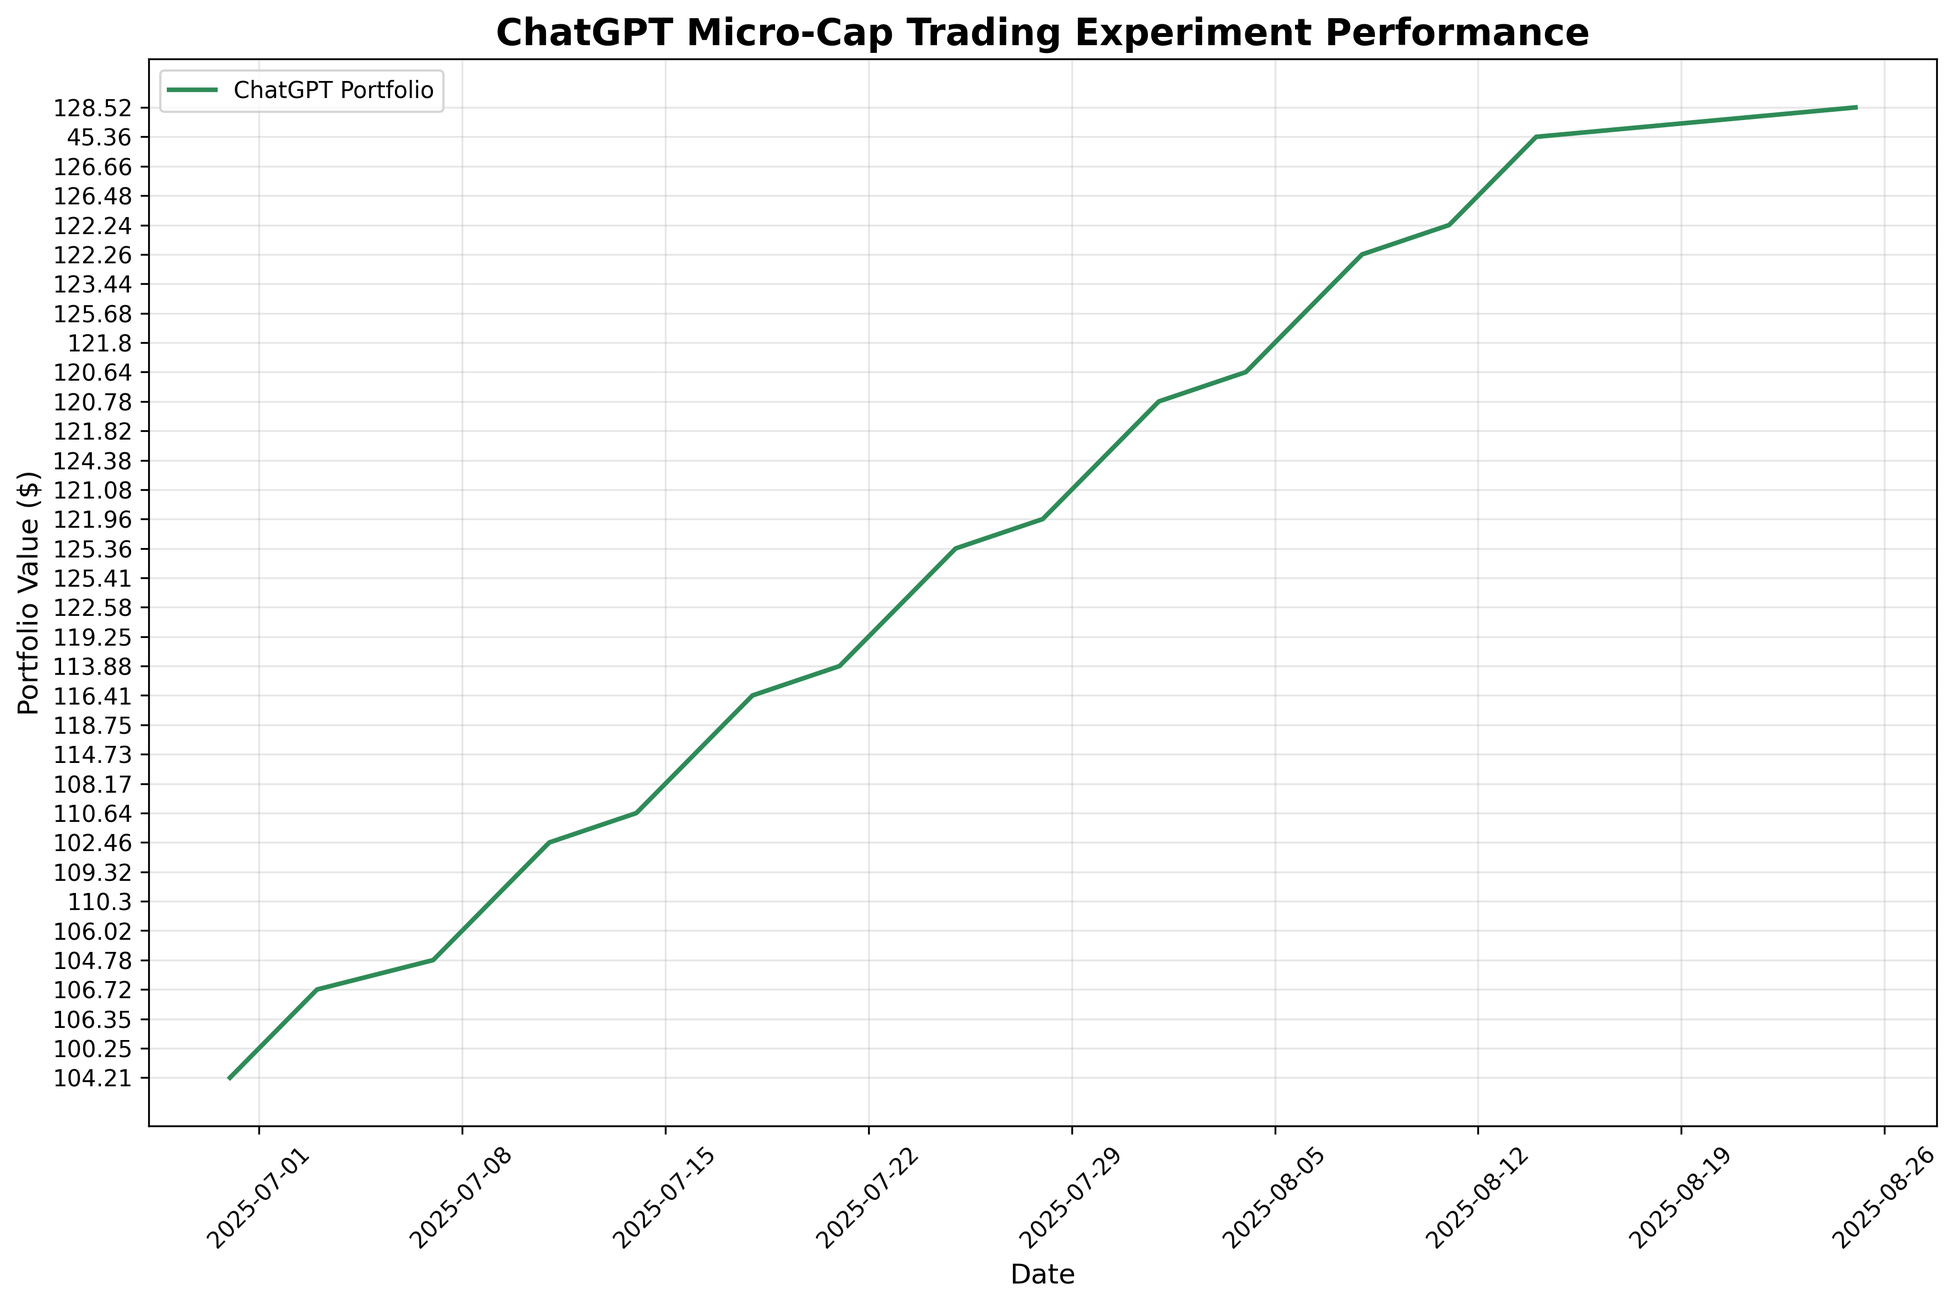
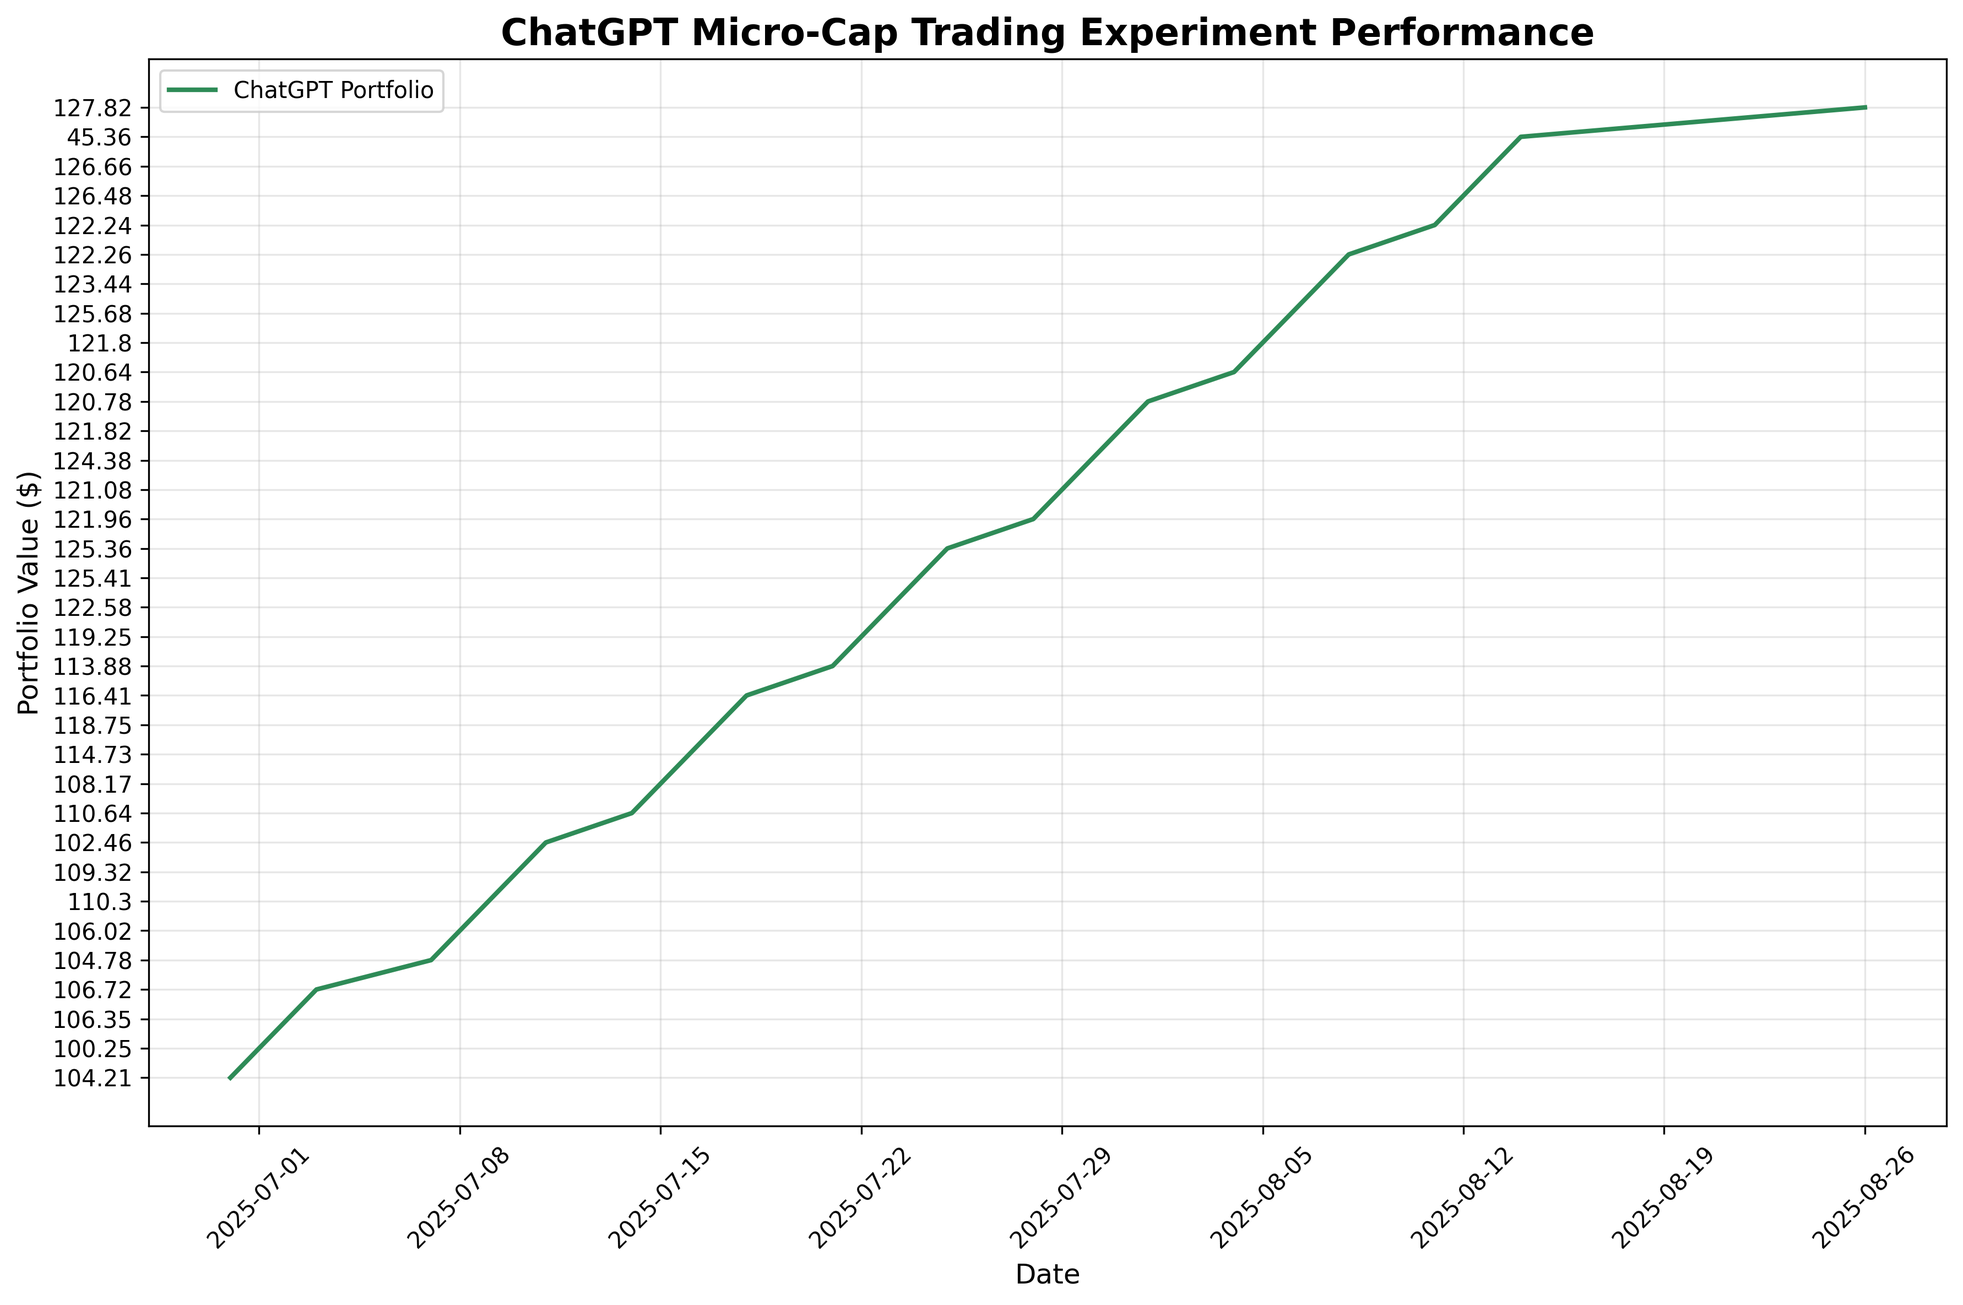
deploy: e15cad030d70fb3fbb51f9df6e22fa70c2f175c0

diff --git a/index.html b/index.html
@@ -105,7 +105,7 @@
                 <div class="stat-label">Total Trades</div>
             </div>
             <div class="stat-card">
-                <div class="stat-value" id="last-updated">2025-08-25</div>
+                <div class="stat-value" id="last-updated">2025-08-26</div>
                 <div class="stat-label">Last Updated</div>
             </div>
         </div>
@@ -160,7 +160,7 @@
     
     <script>
         // Portfolio data
-        const portfolioData = JSON.parse("[{&quot;Date&quot;: &quot;2025-08-11&quot;, &quot;Ticker&quot;: &quot;ABEO&quot;, &quot;Shares&quot;: 4.0, &quot;Buy Price&quot;: 5.77, &quot;Cost Basis&quot;: 23.08, &quot;Stop Loss&quot;: 4.9, &quot;Current Price&quot;: 6.28, &quot;Total Value&quot;: 25.12, &quot;PnL&quot;: 2.04, &quot;Action&quot;: &quot;HOLD&quot;, &quot;Cash Balance&quot;: NaN, &quot;Total Equity&quot;: NaN}, {&quot;Date&quot;: &quot;2025-08-11&quot;, &quot;Ticker&quot;: &quot;ACTU&quot;, &quot;Shares&quot;: 6.0, &quot;Buy Price&quot;: 5.75, &quot;Cost Basis&quot;: 34.5, &quot;Stop Loss&quot;: 4.89, &quot;Current Price&quot;: 8.01, &quot;Total Value&quot;: 48.06, &quot;PnL&quot;: 13.56, &quot;Action&quot;: &quot;HOLD&quot;, &quot;Cash Balance&quot;: NaN, &quot;Total Equity&quot;: NaN}, {&quot;Date&quot;: &quot;2025-08-11&quot;, &quot;Ticker&quot;: &quot;ESPR&quot;, &quot;Shares&quot;: 2.0, &quot;Buy Price&quot;: 1.91, &quot;Cost Basis&quot;: 3.82, &quot;Stop Loss&quot;: 1.6, &quot;Current Price&quot;: 1.85, &quot;Total Value&quot;: 3.7, &quot;PnL&quot;: -0.12, &quot;Action&quot;: &quot;HOLD&quot;, &quot;Cash Balance&quot;: NaN, &quot;Total Equity&quot;: NaN}, {&quot;Date&quot;: &quot;2025-08-11&quot;, &quot;Ticker&quot;: &quot;TOTAL&quot;, &quot;Shares&quot;: NaN, &quot;Buy Price&quot;: NaN, &quot;Cost Basis&quot;: NaN, &quot;Stop Loss&quot;: NaN, &quot;Current Price&quot;: NaN, &quot;Total Value&quot;: 76.88, &quot;PnL&quot;: 15.48, &quot;Action&quot;: NaN, &quot;Cash Balance&quot;: 45.36, &quot;Total Equity&quot;: &quot;122.24&quot;}, {&quot;Date&quot;: &quot;2025-08-12&quot;, &quot;Ticker&quot;: &quot;ABEO&quot;, &quot;Shares&quot;: 4.0, &quot;Buy Price&quot;: 5.77, &quot;Cost Basis&quot;: 23.08, &quot;Stop Loss&quot;: 4.9, &quot;Current Price&quot;: 6.38, &quot;Total Value&quot;: 25.52, &quot;PnL&quot;: 2.44, &quot;Action&quot;: &quot;HOLD&quot;, &quot;Cash Balance&quot;: NaN, &quot;Total Equity&quot;: NaN}, {&quot;Date&quot;: &quot;2025-08-12&quot;, &quot;Ticker&quot;: &quot;ACTU&quot;, &quot;Shares&quot;: 6.0, &quot;Buy Price&quot;: 5.75, &quot;Cost Basis&quot;: 34.5, &quot;Stop Loss&quot;: 4.89, &quot;Current Price&quot;: 8.67, &quot;Total Value&quot;: 52.02, &quot;PnL&quot;: 17.52, &quot;Action&quot;: &quot;HOLD&quot;, &quot;Cash Balance&quot;: NaN, &quot;Total Equity&quot;: NaN}, {&quot;Date&quot;: &quot;2025-08-12&quot;, &quot;Ticker&quot;: &quot;ESPR&quot;, &quot;Shares&quot;: 2.0, &quot;Buy Price&quot;: 1.91, &quot;Cost Basis&quot;: 3.82, &quot;Stop Loss&quot;: 1.6, &quot;Current Price&quot;: 1.79, &quot;Total Value&quot;: 3.58, &quot;PnL&quot;: -0.24, &quot;Action&quot;: &quot;HOLD&quot;, &quot;Cash Balance&quot;: NaN, &quot;Total Equity&quot;: NaN}, {&quot;Date&quot;: &quot;2025-08-12&quot;, &quot;Ticker&quot;: &quot;TOTAL&quot;, &quot;Shares&quot;: NaN, &quot;Buy Price&quot;: NaN, &quot;Cost Basis&quot;: NaN, &quot;Stop Loss&quot;: NaN, &quot;Current Price&quot;: NaN, &quot;Total Value&quot;: 81.12, &quot;PnL&quot;: 19.72, &quot;Action&quot;: NaN, &quot;Cash Balance&quot;: 45.36, &quot;Total Equity&quot;: &quot;126.48&quot;}, {&quot;Date&quot;: &quot;2025-08-13&quot;, &quot;Ticker&quot;: &quot;ABEO&quot;, &quot;Shares&quot;: 4.0, &quot;Buy Price&quot;: 5.77, &quot;Cost Basis&quot;: 23.08, &quot;Stop Loss&quot;: 4.9, &quot;Current Price&quot;: 6.56, &quot;Total Value&quot;: 26.24, &quot;PnL&quot;: 3.16, &quot;Action&quot;: &quot;HOLD&quot;, &quot;Cash Balance&quot;: NaN, &quot;Total Equity&quot;: NaN}, {&quot;Date&quot;: &quot;2025-08-13&quot;, &quot;Ticker&quot;: &quot;ACTU&quot;, &quot;Shares&quot;: 6.0, &quot;Buy Price&quot;: 5.75, &quot;Cost Basis&quot;: 34.5, &quot;Stop Loss&quot;: 4.89, &quot;Current Price&quot;: 8.53, &quot;Total Value&quot;: 51.18, &quot;PnL&quot;: 16.68, &quot;Action&quot;: &quot;HOLD&quot;, &quot;Cash Balance&quot;: NaN, &quot;Total Equity&quot;: NaN}, {&quot;Date&quot;: &quot;2025-08-13&quot;, &quot;Ticker&quot;: &quot;ESPR&quot;, &quot;Shares&quot;: 2.0, &quot;Buy Price&quot;: 1.91, &quot;Cost Basis&quot;: 3.82, &quot;Stop Loss&quot;: 1.6, &quot;Current Price&quot;: 1.94, &quot;Total Value&quot;: 3.88, &quot;PnL&quot;: 0.06, &quot;Action&quot;: &quot;HOLD&quot;, &quot;Cash Balance&quot;: NaN, &quot;Total Equity&quot;: NaN}, {&quot;Date&quot;: &quot;2025-08-13&quot;, &quot;Ticker&quot;: &quot;TOTAL&quot;, &quot;Shares&quot;: NaN, &quot;Buy Price&quot;: NaN, &quot;Cost Basis&quot;: NaN, &quot;Stop Loss&quot;: NaN, &quot;Current Price&quot;: NaN, &quot;Total Value&quot;: 81.3, &quot;PnL&quot;: 19.9, &quot;Action&quot;: NaN, &quot;Cash Balance&quot;: 45.36, &quot;Total Equity&quot;: &quot;126.66&quot;}, {&quot;Date&quot;: &quot;2025-08-14&quot;, &quot;Ticker&quot;: &quot;ABEO&quot;, &quot;Shares&quot;: 4.0, &quot;Buy Price&quot;: 5.77, &quot;Cost Basis&quot;: 23.08, &quot;Stop Loss&quot;: 4.9, &quot;Current Price&quot;: NaN, &quot;Total Value&quot;: NaN, &quot;PnL&quot;: NaN, &quot;Action&quot;: &quot;NO DATA&quot;, &quot;Cash Balance&quot;: NaN, &quot;Total Equity&quot;: NaN}, {&quot;Date&quot;: &quot;2025-08-14&quot;, &quot;Ticker&quot;: &quot;ACTU&quot;, &quot;Shares&quot;: 6.0, &quot;Buy Price&quot;: 5.75, &quot;Cost Basis&quot;: 34.5, &quot;Stop Loss&quot;: 4.89, &quot;Current Price&quot;: NaN, &quot;Total Value&quot;: NaN, &quot;PnL&quot;: NaN, &quot;Action&quot;: &quot;NO DATA&quot;, &quot;Cash Balance&quot;: NaN, &quot;Total Equity&quot;: NaN}, {&quot;Date&quot;: &quot;2025-08-14&quot;, &quot;Ticker&quot;: &quot;ESPR&quot;, &quot;Shares&quot;: 2.0, &quot;Buy Price&quot;: 1.91, &quot;Cost Basis&quot;: 3.82, &quot;Stop Loss&quot;: 1.6, &quot;Current Price&quot;: NaN, &quot;Total Value&quot;: NaN, &quot;PnL&quot;: NaN, &quot;Action&quot;: &quot;NO DATA&quot;, &quot;Cash Balance&quot;: NaN, &quot;Total Equity&quot;: NaN}, {&quot;Date&quot;: &quot;2025-08-14&quot;, &quot;Ticker&quot;: &quot;TOTAL&quot;, &quot;Shares&quot;: NaN, &quot;Buy Price&quot;: NaN, &quot;Cost Basis&quot;: NaN, &quot;Stop Loss&quot;: NaN, &quot;Current Price&quot;: NaN, &quot;Total Value&quot;: 0.0, &quot;PnL&quot;: 0.0, &quot;Action&quot;: NaN, &quot;Cash Balance&quot;: 45.36, &quot;Total Equity&quot;: &quot;45.36&quot;}, {&quot;Date&quot;: &quot;2025-08-25&quot;, &quot;Ticker&quot;: &quot;ABEO&quot;, &quot;Shares&quot;: 4.0, &quot;Buy Price&quot;: 5.77, &quot;Cost Basis&quot;: 23.08, &quot;Stop Loss&quot;: 4.9, &quot;Current Price&quot;: 7.26, &quot;Total Value&quot;: 29.04, &quot;PnL&quot;: 5.96, &quot;Action&quot;: &quot;HOLD&quot;, &quot;Cash Balance&quot;: NaN, &quot;Total Equity&quot;: NaN}, {&quot;Date&quot;: &quot;2025-08-25&quot;, &quot;Ticker&quot;: &quot;ACTU&quot;, &quot;Shares&quot;: 6.0, &quot;Buy Price&quot;: 5.75, &quot;Cost Basis&quot;: 34.5, &quot;Stop Loss&quot;: 4.89, &quot;Current Price&quot;: 8.28, &quot;Total Value&quot;: 49.68, &quot;PnL&quot;: 15.18, &quot;Action&quot;: &quot;HOLD&quot;, &quot;Cash Balance&quot;: NaN, &quot;Total Equity&quot;: NaN}, {&quot;Date&quot;: &quot;2025-08-25&quot;, &quot;Ticker&quot;: &quot;ESPR&quot;, &quot;Shares&quot;: 2.0, &quot;Buy Price&quot;: 1.91, &quot;Cost Basis&quot;: 3.82, &quot;Stop Loss&quot;: 1.6, &quot;Current Price&quot;: 2.22, &quot;Total Value&quot;: 4.44, &quot;PnL&quot;: 0.62, &quot;Action&quot;: &quot;HOLD&quot;, &quot;Cash Balance&quot;: NaN, &quot;Total Equity&quot;: NaN}, {&quot;Date&quot;: &quot;2025-08-25&quot;, &quot;Ticker&quot;: &quot;TOTAL&quot;, &quot;Shares&quot;: NaN, &quot;Buy Price&quot;: NaN, &quot;Cost Basis&quot;: NaN, &quot;Stop Loss&quot;: NaN, &quot;Current Price&quot;: NaN, &quot;Total Value&quot;: 83.16, &quot;PnL&quot;: 21.76, &quot;Action&quot;: NaN, &quot;Cash Balance&quot;: 45.36, &quot;Total Equity&quot;: &quot;128.52&quot;}]");
+        const portfolioData = JSON.parse("[{&quot;Date&quot;: &quot;2025-08-11&quot;, &quot;Ticker&quot;: &quot;ABEO&quot;, &quot;Shares&quot;: 4.0, &quot;Buy Price&quot;: 5.77, &quot;Cost Basis&quot;: 23.08, &quot;Stop Loss&quot;: 4.9, &quot;Current Price&quot;: 6.28, &quot;Total Value&quot;: 25.12, &quot;PnL&quot;: 2.04, &quot;Action&quot;: &quot;HOLD&quot;, &quot;Cash Balance&quot;: NaN, &quot;Total Equity&quot;: NaN}, {&quot;Date&quot;: &quot;2025-08-11&quot;, &quot;Ticker&quot;: &quot;ACTU&quot;, &quot;Shares&quot;: 6.0, &quot;Buy Price&quot;: 5.75, &quot;Cost Basis&quot;: 34.5, &quot;Stop Loss&quot;: 4.89, &quot;Current Price&quot;: 8.01, &quot;Total Value&quot;: 48.06, &quot;PnL&quot;: 13.56, &quot;Action&quot;: &quot;HOLD&quot;, &quot;Cash Balance&quot;: NaN, &quot;Total Equity&quot;: NaN}, {&quot;Date&quot;: &quot;2025-08-11&quot;, &quot;Ticker&quot;: &quot;ESPR&quot;, &quot;Shares&quot;: 2.0, &quot;Buy Price&quot;: 1.91, &quot;Cost Basis&quot;: 3.82, &quot;Stop Loss&quot;: 1.6, &quot;Current Price&quot;: 1.85, &quot;Total Value&quot;: 3.7, &quot;PnL&quot;: -0.12, &quot;Action&quot;: &quot;HOLD&quot;, &quot;Cash Balance&quot;: NaN, &quot;Total Equity&quot;: NaN}, {&quot;Date&quot;: &quot;2025-08-11&quot;, &quot;Ticker&quot;: &quot;TOTAL&quot;, &quot;Shares&quot;: NaN, &quot;Buy Price&quot;: NaN, &quot;Cost Basis&quot;: NaN, &quot;Stop Loss&quot;: NaN, &quot;Current Price&quot;: NaN, &quot;Total Value&quot;: 76.88, &quot;PnL&quot;: 15.48, &quot;Action&quot;: NaN, &quot;Cash Balance&quot;: 45.36, &quot;Total Equity&quot;: &quot;122.24&quot;}, {&quot;Date&quot;: &quot;2025-08-12&quot;, &quot;Ticker&quot;: &quot;ABEO&quot;, &quot;Shares&quot;: 4.0, &quot;Buy Price&quot;: 5.77, &quot;Cost Basis&quot;: 23.08, &quot;Stop Loss&quot;: 4.9, &quot;Current Price&quot;: 6.38, &quot;Total Value&quot;: 25.52, &quot;PnL&quot;: 2.44, &quot;Action&quot;: &quot;HOLD&quot;, &quot;Cash Balance&quot;: NaN, &quot;Total Equity&quot;: NaN}, {&quot;Date&quot;: &quot;2025-08-12&quot;, &quot;Ticker&quot;: &quot;ACTU&quot;, &quot;Shares&quot;: 6.0, &quot;Buy Price&quot;: 5.75, &quot;Cost Basis&quot;: 34.5, &quot;Stop Loss&quot;: 4.89, &quot;Current Price&quot;: 8.67, &quot;Total Value&quot;: 52.02, &quot;PnL&quot;: 17.52, &quot;Action&quot;: &quot;HOLD&quot;, &quot;Cash Balance&quot;: NaN, &quot;Total Equity&quot;: NaN}, {&quot;Date&quot;: &quot;2025-08-12&quot;, &quot;Ticker&quot;: &quot;ESPR&quot;, &quot;Shares&quot;: 2.0, &quot;Buy Price&quot;: 1.91, &quot;Cost Basis&quot;: 3.82, &quot;Stop Loss&quot;: 1.6, &quot;Current Price&quot;: 1.79, &quot;Total Value&quot;: 3.58, &quot;PnL&quot;: -0.24, &quot;Action&quot;: &quot;HOLD&quot;, &quot;Cash Balance&quot;: NaN, &quot;Total Equity&quot;: NaN}, {&quot;Date&quot;: &quot;2025-08-12&quot;, &quot;Ticker&quot;: &quot;TOTAL&quot;, &quot;Shares&quot;: NaN, &quot;Buy Price&quot;: NaN, &quot;Cost Basis&quot;: NaN, &quot;Stop Loss&quot;: NaN, &quot;Current Price&quot;: NaN, &quot;Total Value&quot;: 81.12, &quot;PnL&quot;: 19.72, &quot;Action&quot;: NaN, &quot;Cash Balance&quot;: 45.36, &quot;Total Equity&quot;: &quot;126.48&quot;}, {&quot;Date&quot;: &quot;2025-08-13&quot;, &quot;Ticker&quot;: &quot;ABEO&quot;, &quot;Shares&quot;: 4.0, &quot;Buy Price&quot;: 5.77, &quot;Cost Basis&quot;: 23.08, &quot;Stop Loss&quot;: 4.9, &quot;Current Price&quot;: 6.56, &quot;Total Value&quot;: 26.24, &quot;PnL&quot;: 3.16, &quot;Action&quot;: &quot;HOLD&quot;, &quot;Cash Balance&quot;: NaN, &quot;Total Equity&quot;: NaN}, {&quot;Date&quot;: &quot;2025-08-13&quot;, &quot;Ticker&quot;: &quot;ACTU&quot;, &quot;Shares&quot;: 6.0, &quot;Buy Price&quot;: 5.75, &quot;Cost Basis&quot;: 34.5, &quot;Stop Loss&quot;: 4.89, &quot;Current Price&quot;: 8.53, &quot;Total Value&quot;: 51.18, &quot;PnL&quot;: 16.68, &quot;Action&quot;: &quot;HOLD&quot;, &quot;Cash Balance&quot;: NaN, &quot;Total Equity&quot;: NaN}, {&quot;Date&quot;: &quot;2025-08-13&quot;, &quot;Ticker&quot;: &quot;ESPR&quot;, &quot;Shares&quot;: 2.0, &quot;Buy Price&quot;: 1.91, &quot;Cost Basis&quot;: 3.82, &quot;Stop Loss&quot;: 1.6, &quot;Current Price&quot;: 1.94, &quot;Total Value&quot;: 3.88, &quot;PnL&quot;: 0.06, &quot;Action&quot;: &quot;HOLD&quot;, &quot;Cash Balance&quot;: NaN, &quot;Total Equity&quot;: NaN}, {&quot;Date&quot;: &quot;2025-08-13&quot;, &quot;Ticker&quot;: &quot;TOTAL&quot;, &quot;Shares&quot;: NaN, &quot;Buy Price&quot;: NaN, &quot;Cost Basis&quot;: NaN, &quot;Stop Loss&quot;: NaN, &quot;Current Price&quot;: NaN, &quot;Total Value&quot;: 81.3, &quot;PnL&quot;: 19.9, &quot;Action&quot;: NaN, &quot;Cash Balance&quot;: 45.36, &quot;Total Equity&quot;: &quot;126.66&quot;}, {&quot;Date&quot;: &quot;2025-08-14&quot;, &quot;Ticker&quot;: &quot;ABEO&quot;, &quot;Shares&quot;: 4.0, &quot;Buy Price&quot;: 5.77, &quot;Cost Basis&quot;: 23.08, &quot;Stop Loss&quot;: 4.9, &quot;Current Price&quot;: NaN, &quot;Total Value&quot;: NaN, &quot;PnL&quot;: NaN, &quot;Action&quot;: &quot;NO DATA&quot;, &quot;Cash Balance&quot;: NaN, &quot;Total Equity&quot;: NaN}, {&quot;Date&quot;: &quot;2025-08-14&quot;, &quot;Ticker&quot;: &quot;ACTU&quot;, &quot;Shares&quot;: 6.0, &quot;Buy Price&quot;: 5.75, &quot;Cost Basis&quot;: 34.5, &quot;Stop Loss&quot;: 4.89, &quot;Current Price&quot;: NaN, &quot;Total Value&quot;: NaN, &quot;PnL&quot;: NaN, &quot;Action&quot;: &quot;NO DATA&quot;, &quot;Cash Balance&quot;: NaN, &quot;Total Equity&quot;: NaN}, {&quot;Date&quot;: &quot;2025-08-14&quot;, &quot;Ticker&quot;: &quot;ESPR&quot;, &quot;Shares&quot;: 2.0, &quot;Buy Price&quot;: 1.91, &quot;Cost Basis&quot;: 3.82, &quot;Stop Loss&quot;: 1.6, &quot;Current Price&quot;: NaN, &quot;Total Value&quot;: NaN, &quot;PnL&quot;: NaN, &quot;Action&quot;: &quot;NO DATA&quot;, &quot;Cash Balance&quot;: NaN, &quot;Total Equity&quot;: NaN}, {&quot;Date&quot;: &quot;2025-08-14&quot;, &quot;Ticker&quot;: &quot;TOTAL&quot;, &quot;Shares&quot;: NaN, &quot;Buy Price&quot;: NaN, &quot;Cost Basis&quot;: NaN, &quot;Stop Loss&quot;: NaN, &quot;Current Price&quot;: NaN, &quot;Total Value&quot;: 0.0, &quot;PnL&quot;: 0.0, &quot;Action&quot;: NaN, &quot;Cash Balance&quot;: 45.36, &quot;Total Equity&quot;: &quot;45.36&quot;}, {&quot;Date&quot;: &quot;2025-08-26&quot;, &quot;Ticker&quot;: &quot;ABEO&quot;, &quot;Shares&quot;: 4.0, &quot;Buy Price&quot;: 5.77, &quot;Cost Basis&quot;: 23.08, &quot;Stop Loss&quot;: 4.9, &quot;Current Price&quot;: 7.06, &quot;Total Value&quot;: 28.24, &quot;PnL&quot;: 5.16, &quot;Action&quot;: &quot;HOLD&quot;, &quot;Cash Balance&quot;: NaN, &quot;Total Equity&quot;: NaN}, {&quot;Date&quot;: &quot;2025-08-26&quot;, &quot;Ticker&quot;: &quot;ACTU&quot;, &quot;Shares&quot;: 6.0, &quot;Buy Price&quot;: 5.75, &quot;Cost Basis&quot;: 34.5, &quot;Stop Loss&quot;: 4.89, &quot;Current Price&quot;: 8.31, &quot;Total Value&quot;: 49.86, &quot;PnL&quot;: 15.36, &quot;Action&quot;: &quot;HOLD&quot;, &quot;Cash Balance&quot;: NaN, &quot;Total Equity&quot;: NaN}, {&quot;Date&quot;: &quot;2025-08-26&quot;, &quot;Ticker&quot;: &quot;ESPR&quot;, &quot;Shares&quot;: 2.0, &quot;Buy Price&quot;: 1.91, &quot;Cost Basis&quot;: 3.82, &quot;Stop Loss&quot;: 1.6, &quot;Current Price&quot;: 2.18, &quot;Total Value&quot;: 4.36, &quot;PnL&quot;: 0.54, &quot;Action&quot;: &quot;HOLD&quot;, &quot;Cash Balance&quot;: NaN, &quot;Total Equity&quot;: NaN}, {&quot;Date&quot;: &quot;2025-08-26&quot;, &quot;Ticker&quot;: &quot;TOTAL&quot;, &quot;Shares&quot;: NaN, &quot;Buy Price&quot;: NaN, &quot;Cost Basis&quot;: NaN, &quot;Stop Loss&quot;: NaN, &quot;Current Price&quot;: NaN, &quot;Total Value&quot;: 82.46, &quot;PnL&quot;: 21.06, &quot;Action&quot;: NaN, &quot;Cash Balance&quot;: 45.36, &quot;Total Equity&quot;: &quot;127.82&quot;}]");
         const tradeData = JSON.parse("[{&quot;Date&quot;: &quot;2025-07-07&quot;, &quot;Ticker&quot;: &quot;CSAI&quot;, &quot;Shares Bought&quot;: NaN, &quot;Buy Price&quot;: NaN, &quot;Cost Basis&quot;: 1.9, &quot;PnL&quot;: 5.7, &quot;Reason&quot;: &quot;MANUAL SELL - Rotated into AZTR&quot;, &quot;Shares Sold&quot;: 15.0, &quot;Sell Price&quot;: 2.28}, {&quot;Date&quot;: &quot;2025-07-08&quot;, &quot;Ticker&quot;: &quot;IINN&quot;, &quot;Shares Bought&quot;: 20.0, &quot;Buy Price&quot;: 1.5, &quot;Cost Basis&quot;: 30.0, &quot;PnL&quot;: 0.0, &quot;Reason&quot;: &quot;MANUAL BUY - New position&quot;, &quot;Shares Sold&quot;: NaN, &quot;Sell Price&quot;: NaN}, {&quot;Date&quot;: &quot;2025-07-21&quot;, &quot;Ticker&quot;: &quot;CADL&quot;, &quot;Shares Bought&quot;: NaN, &quot;Buy Price&quot;: NaN, &quot;Cost Basis&quot;: 25.2, &quot;PnL&quot;: 8.5, &quot;Reason&quot;: &quot;MANUAL SELL - GAIN CAPITAL FOR ACTU&quot;, &quot;Shares Sold&quot;: 5.0, &quot;Sell Price&quot;: 6.59}, {&quot;Date&quot;: &quot;2025-07-21&quot;, &quot;Ticker&quot;: &quot;ACTU&quot;, &quot;Shares Bought&quot;: 6.0, &quot;Buy Price&quot;: 5.75, &quot;Cost Basis&quot;: 34.5, &quot;PnL&quot;: 0.0, &quot;Reason&quot;: &quot;MANUAL BUY - New position&quot;, &quot;Shares Sold&quot;: NaN, &quot;Sell Price&quot;: NaN}, {&quot;Date&quot;: &quot;2025-07-28&quot;, &quot;Ticker&quot;: &quot;IINN&quot;, &quot;Shares Bought&quot;: NaN, &quot;Buy Price&quot;: NaN, &quot;Cost Basis&quot;: 9.0, &quot;PnL&quot;: -0.5400000000000009, &quot;Reason&quot;: &quot;MANUAL SELL - POSITION REDUCTION&quot;, &quot;Shares Sold&quot;: 6.0, &quot;Sell Price&quot;: 1.41}, {&quot;Date&quot;: &quot;2025-07-29&quot;, &quot;Ticker&quot;: &quot;AZTR&quot;, &quot;Shares Bought&quot;: NaN, &quot;Buy Price&quot;: NaN, &quot;Cost Basis&quot;: 13.75, &quot;PnL&quot;: -2.75, &quot;Reason&quot;: &quot;MANUAL SELL - DILUTION RISK&quot;, &quot;Shares Sold&quot;: 55.0, &quot;Sell Price&quot;: 0.2}, {&quot;Date&quot;: &quot;2025-08-01&quot;, &quot;Ticker&quot;: &quot;IINN&quot;, &quot;Shares Bought&quot;: 2.0, &quot;Buy Price&quot;: 1.74, &quot;Cost Basis&quot;: 3.48, &quot;PnL&quot;: 0.0, &quot;Reason&quot;: &quot;MANUAL BUY - New position&quot;, &quot;Shares Sold&quot;: NaN, &quot;Sell Price&quot;: NaN}, {&quot;Date&quot;: &quot;2025-08-01&quot;, &quot;Ticker&quot;: &quot;ABEO&quot;, &quot;Shares Bought&quot;: NaN, &quot;Buy Price&quot;: NaN, &quot;Cost Basis&quot;: 11.54, &quot;PnL&quot;: 1.200000000000001, &quot;Reason&quot;: &quot;MANUAL SELL - TRIM AFTER SUPPORT LOSS&quot;, &quot;Shares Sold&quot;: 2.0, &quot;Sell Price&quot;: 6.37}, {&quot;Date&quot;: &quot;2025-08-07&quot;, &quot;Ticker&quot;: &quot;ESPR&quot;, &quot;Shares Bought&quot;: 2.0, &quot;Buy Price&quot;: 1.91, &quot;Cost Basis&quot;: 3.82, &quot;PnL&quot;: 0.0, &quot;Reason&quot;: &quot;MANUAL BUY - New position&quot;, &quot;Shares Sold&quot;: NaN, &quot;Sell Price&quot;: NaN}, {&quot;Date&quot;: &quot;2025-08-08&quot;, &quot;Ticker&quot;: &quot;IINN&quot;, &quot;Shares Bought&quot;: NaN, &quot;Buy Price&quot;: NaN, &quot;Cost Basis&quot;: 1.5, &quot;PnL&quot;: -6.4, &quot;Reason&quot;: &quot;AUTOMATED SELL - STOPLOSS TRIGGERED&quot;, &quot;Shares Sold&quot;: 16.0, &quot;Sell Price&quot;: 1.1}]");
         
         // Update total equity
